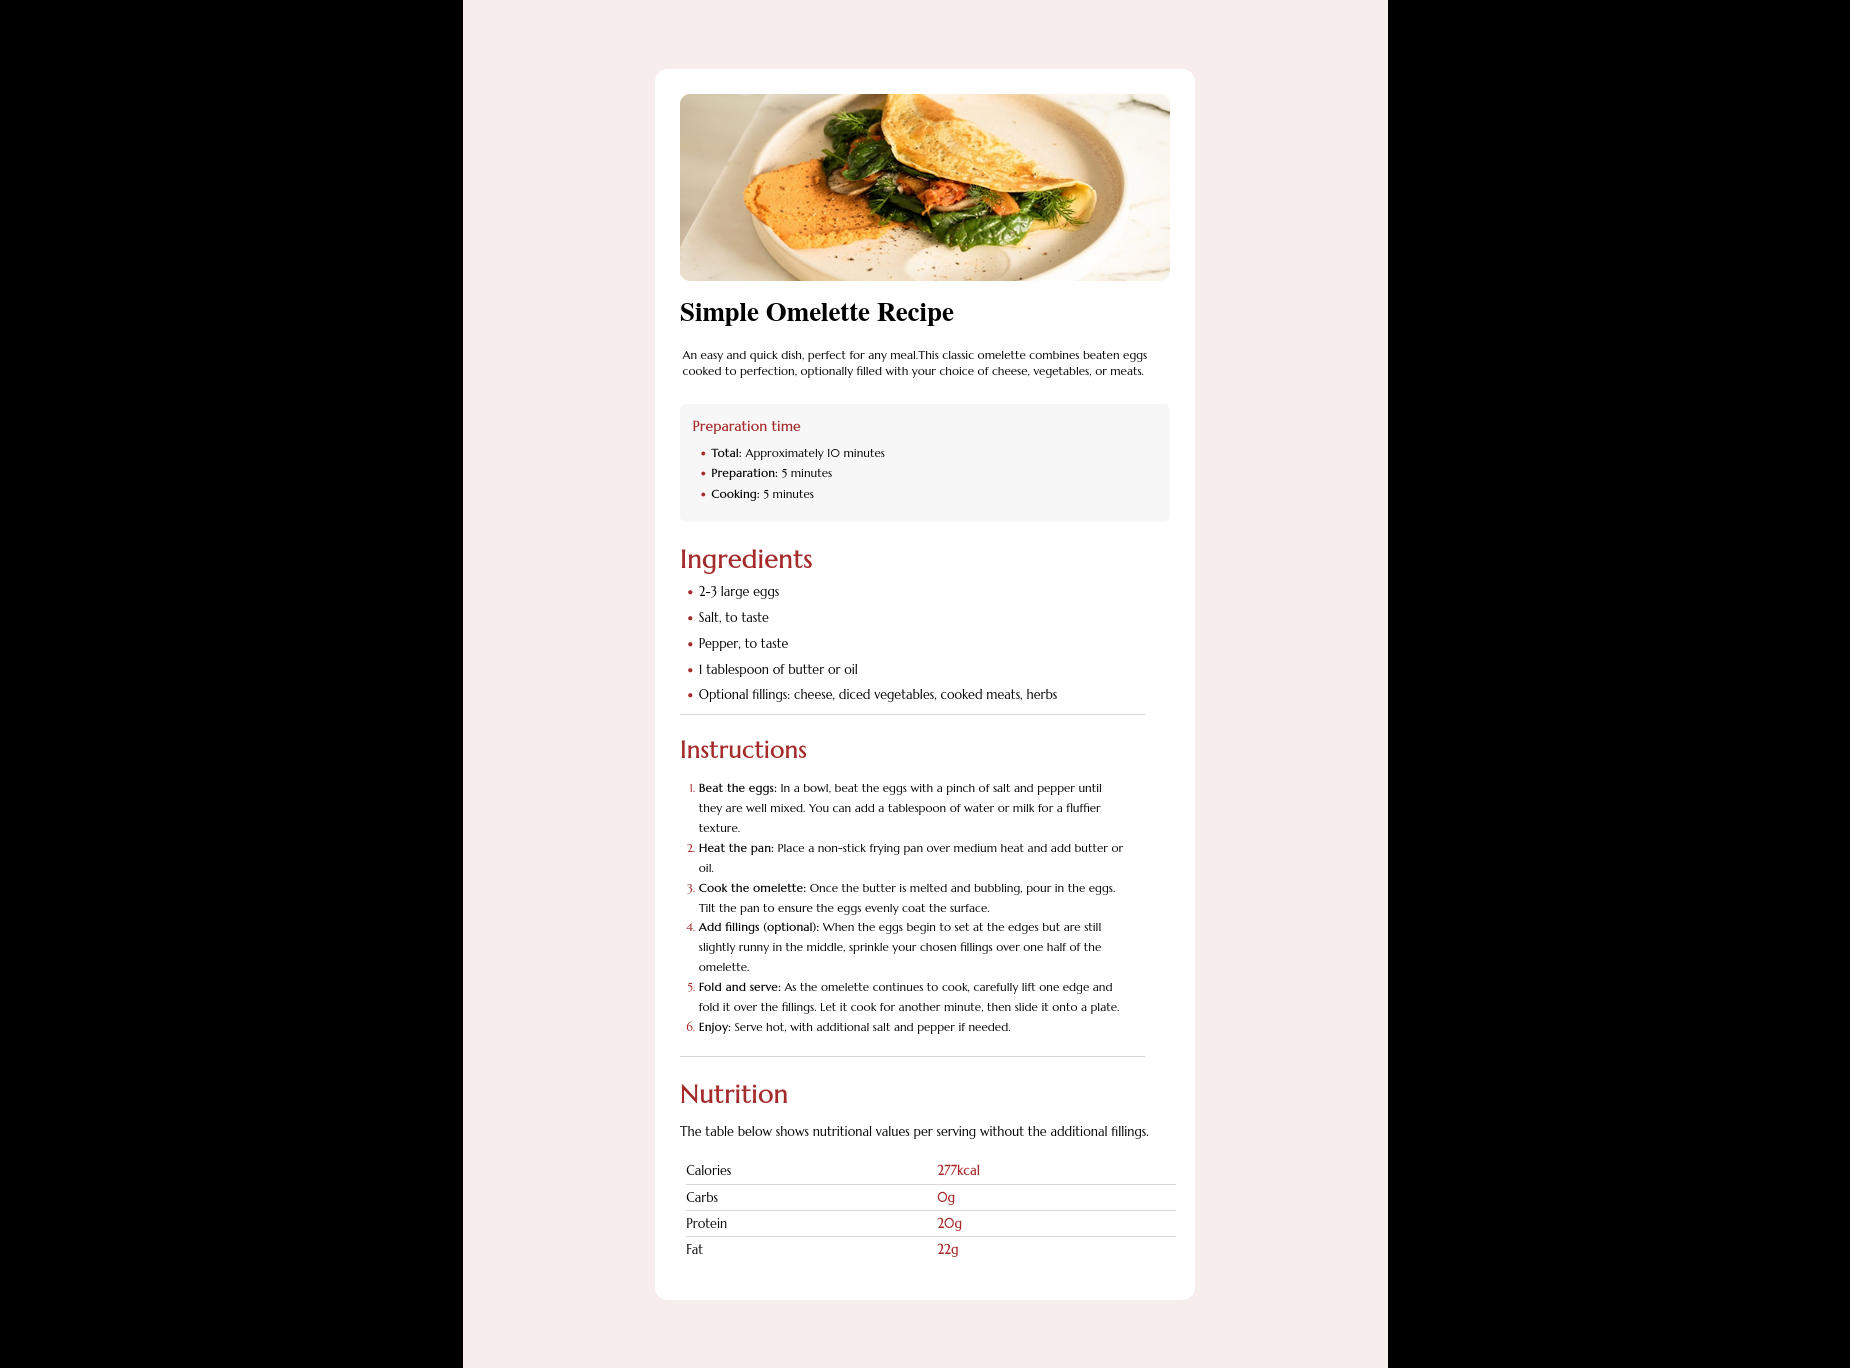
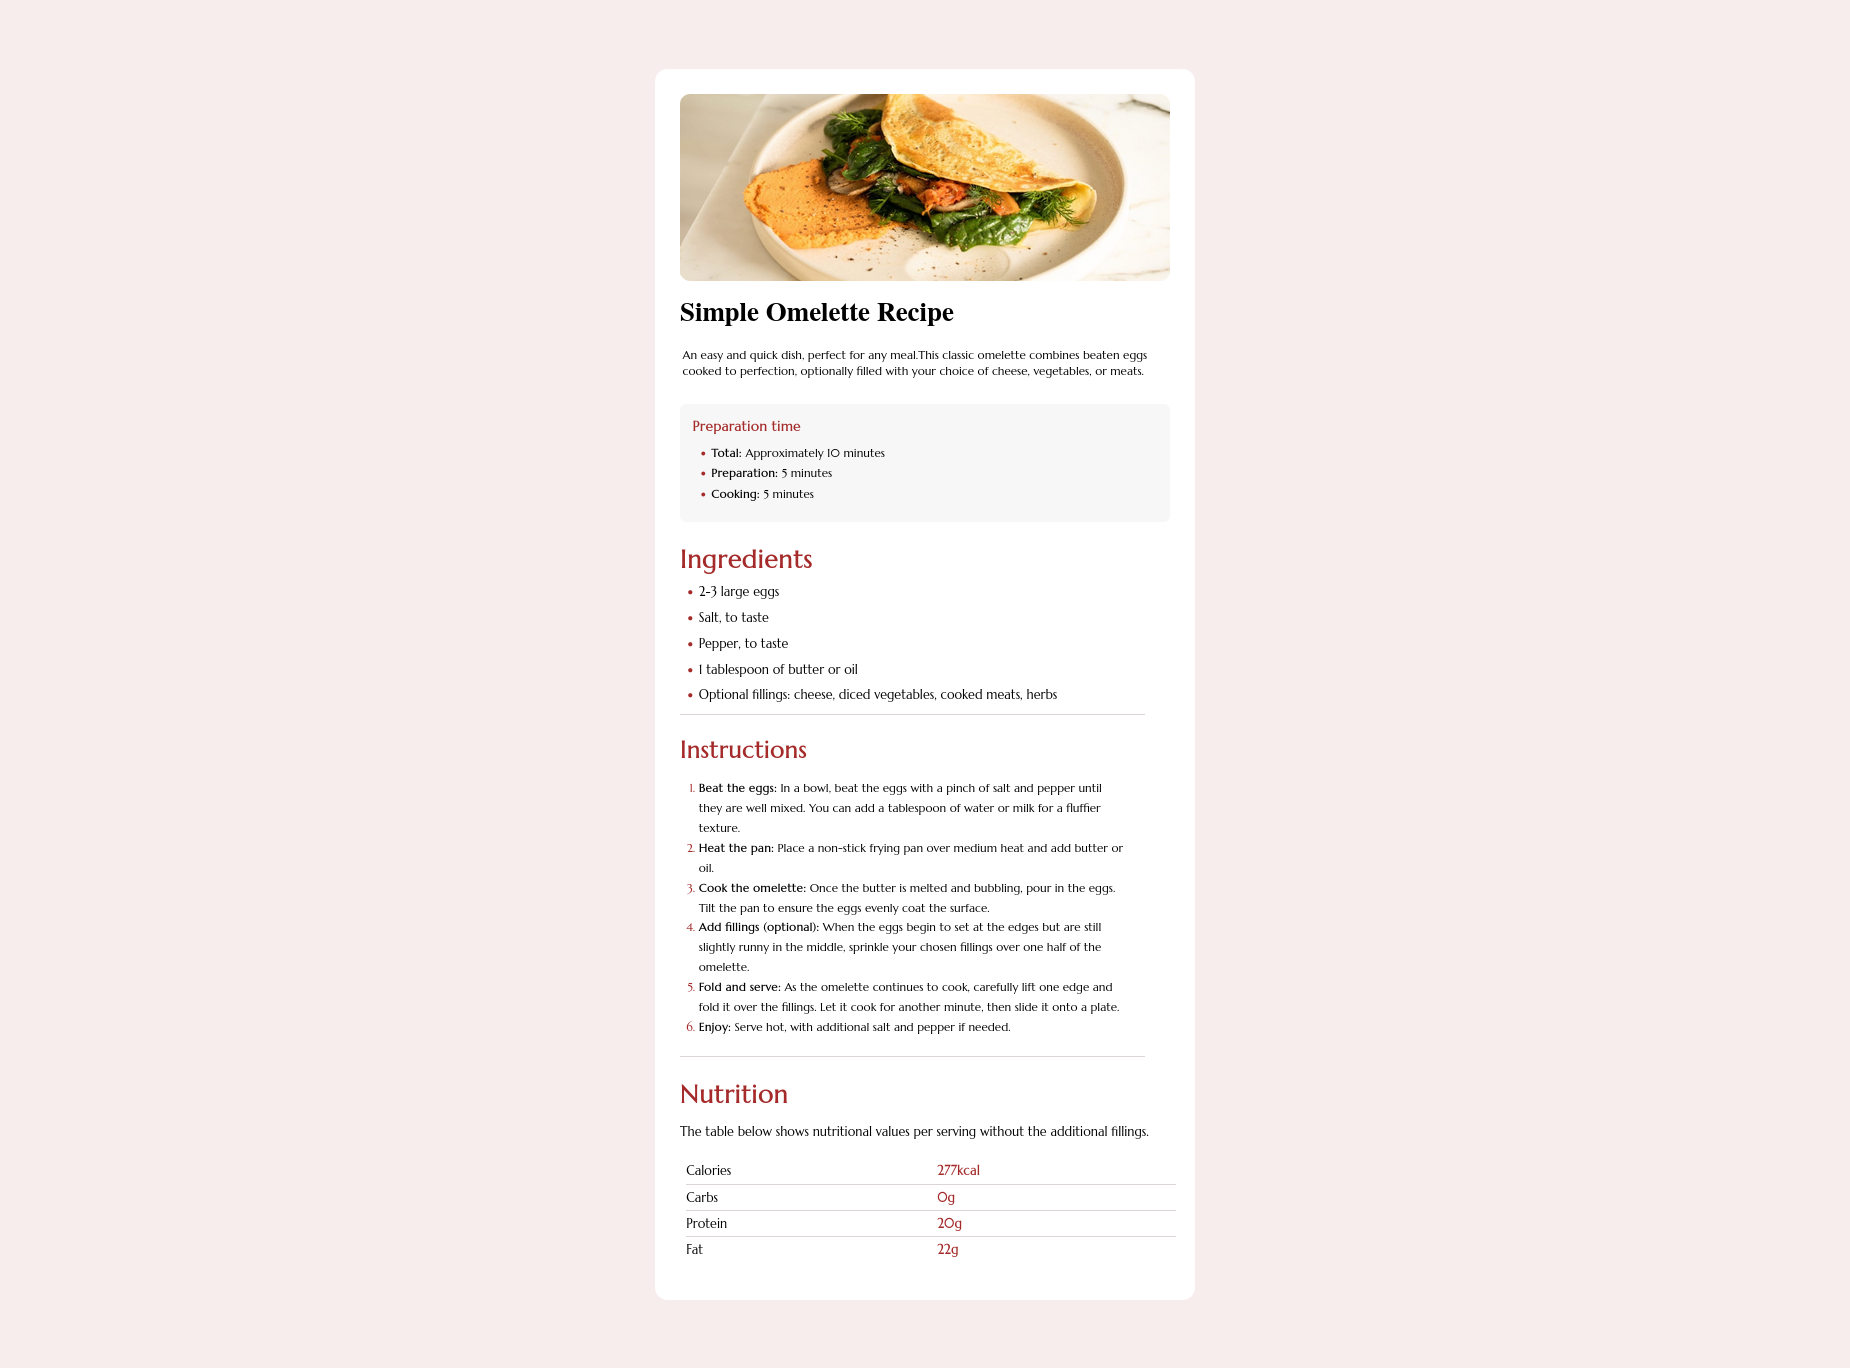
minor fix

diff --git a/style.css b/style.css
@@ -5,19 +5,14 @@
     padding: 0px;
     box-sizing: border-box;
 }
- html {
-    background: black;
-    height: 100%
- }
 
 body {
-    width: 50%;
+    width: 100%;
     margin: 0 auto;
     padding: 5px;
     background-color: rgb(248, 237, 237);
     font: 90%;
     font-family: "Marcellus", serif;
-    heigth: 100%;
 }
 
 .wrapper {
